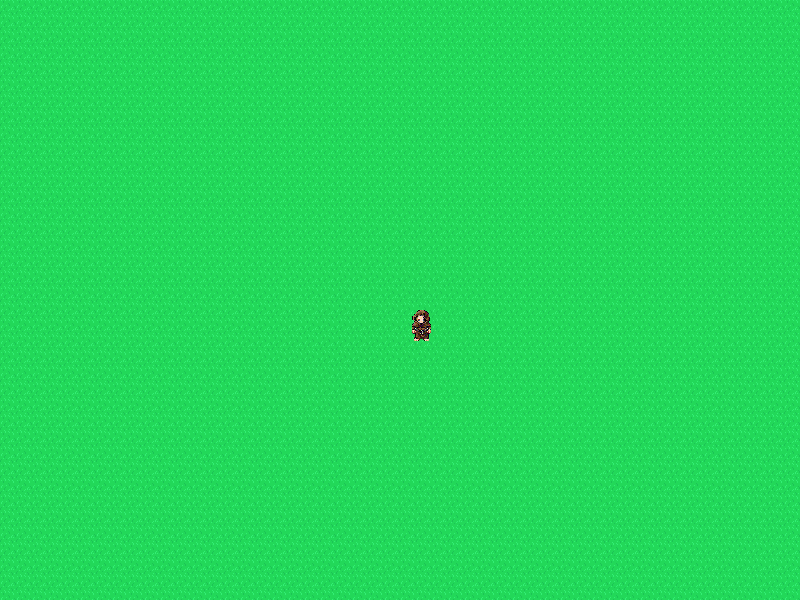
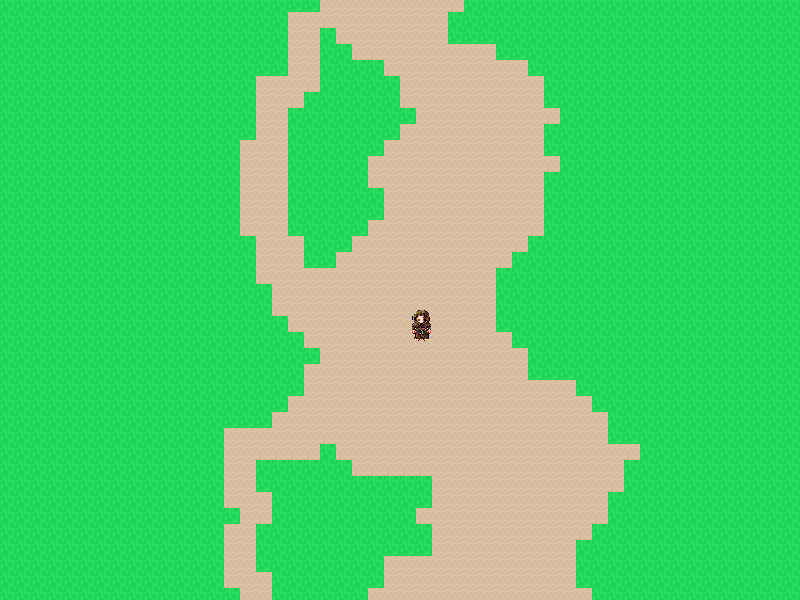
Entity collision detection on any solid map element

Changed region(s): [[0.2812, 0.0, 0.8125, 1.0]]

diff --git a/src/gfx/map.py b/src/gfx/map.py
@@ -109,11 +109,16 @@ class Map:
                     # Check intersection with entites if the layer is solid
                     if layer.is_solid:
                         for entity in entities + [player]:
-                            break
-                            print((entity.x_pos, entity.y_pos), (x_pos + player.camera_x, y_pos + player.camera_x))
+                            # print((entity.x_pos, entity.y_pos), (x_pos + player.camera_x, y_pos + player.camera_x))
 
-                            # TODO: Stop the entity from moving above solid layer
-                            if entity.x_pos >= x_pos + player.camera_x - 2 * self.tileset.tile_size[0] and entity.x_pos <= x_pos + player.camera_x + self.tileset.tile_size[0] / 2:
-                                print('Above solid')
+                            # Stop the entity from moving above solid layer
+                            if entity.x_pos < x_pos + player.camera_x and entity.x_pos > x_pos + player.camera_x - self.tileset.tile_size[0] - entity.body.width / 4 and \
+                                entity.y_pos < y_pos + player.camera_y and entity.y_pos > y_pos + player.camera_y - self.tileset.tile_size[1] - entity.body.height / 3:
+                                
+                                x_diff = entity.x_pos - x_pos - player.camera_x + self.tileset.tile_size[0]
+                                y_diff = entity.y_pos - y_pos - player.camera_y + self.tileset.tile_size[1]
+
+                                entity.x_pos += int(x_diff / 4)
+                                entity.y_pos += int(y_diff / 4)
 
                     screen.blit(self.tileset.tiles[tile], (x_pos, y_pos,))

diff --git a/src/gameplay/player.py b/src/gameplay/player.py
@@ -91,5 +91,5 @@ class Player(Entity):
             self.y_pos = map.layer_size[1] - self.body.height / 2
             self.y_speed = 0
 
-        # print('Camera:', (self.camera_x, self.camera_y), 'Pos:', (self.x_pos, self.y_pos), 'Speed:', (self.x_speed, self.y_speed))
+        print('Camera:', (self.camera_x, self.camera_y), 'Pos:', (self.x_pos, self.y_pos), 'Speed:', (self.x_speed, self.y_speed))
         self.body.display(screen, self)

diff --git a/src/gui.py b/src/gui.py
@@ -22,7 +22,7 @@ class Button:
                 label: str,
                 width: int=None,
                 height: int=None,
-                font_color: tuple=(22, 22, 22,),
+                font_color: tuple=(250, 250, 250,),
                 outline_color: tuple=(200, 50, 40),
                 outline_thickness: int=8,
                 font_family: pygame.font.Font=None):

diff --git a/__main__.py b/__main__.py
@@ -49,7 +49,7 @@ if __name__ == '__main__':
     # Loading the current screen
     current_screen_enum = Screens.LOADING
     last_screen_enum = Screens.LOADING
-    current_screen = LoadingScreen()
+    current_screen = GameScreen()  # LoadingScreen()
 
 
     while current_screen_enum != Screens.EXIT and check_events():

diff --git a/src/config.py b/src/config.py
@@ -27,7 +27,7 @@ class Config:
         self.WINDOW_WIDTH = 800
         self.WINDOW_HEIGHT = 600
         self.FPS_LIMIT = 60
-        self.CHARACTER_SIZE = 17
+        self.CHARACTER_SIZE = 22  # 17
 
         # Keyboard configuration
         self.KEY_UP = locals.K_w

diff --git a/src/screens/loading.py b/src/screens/loading.py
@@ -28,6 +28,6 @@ class LoadingScreen(Screen):
         
         pygame.display.update()
         pygame.display.flip()
-        # time.sleep(2)
+        time.sleep(1.618)
 
         return Screens.MAIN_MENU
